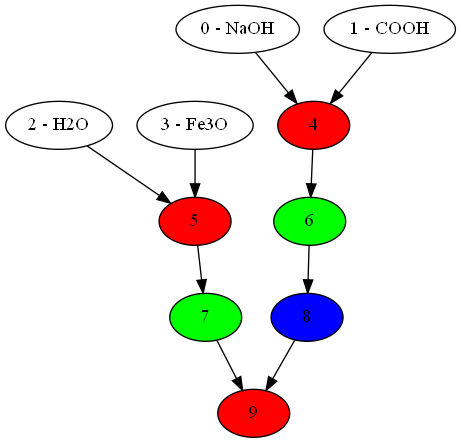
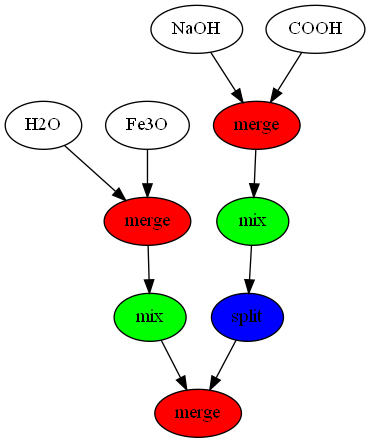
graphviz assays improved look

diff --git a/src/pack/testbench/tests/PlatformAssay3.java b/src/pack/testbench/tests/PlatformAssay3.java
@@ -1,0 +1,46 @@
+package pack.testbench.tests;
+
+import pack.algorithms.BioAssay;
+import pack.algorithms.BioAssayBuilder;
+
+public class PlatformAssay3 extends BioAssay {
+  
+  public PlatformAssay3() {
+    build();
+  }
+
+  private void build() {
+    BioAssayBuilder builder = new BioAssayBuilder();
+    
+    int input1 = builder.createDispenseOperation("NaOH");
+    int heat1 = builder.createHeatingOperation(90f);
+    
+    builder.connect(input1, heat1);
+
+    int input2 = builder.createDispenseOperation("NaCl");
+    int mix1 = builder.createMixOperation();
+    
+    builder.connect(input2, mix1);
+
+    int input3 = builder.createDispenseOperation("A");
+    int input4 = builder.createDispenseOperation("B");
+    int merge1 = builder.createMergeOperation();
+    
+    builder.connect(input3, merge1);
+    builder.connect(input4, merge1);
+    
+    int heat2 = builder.createHeatingOperation(9000f);
+    builder.connect(merge1, heat2);
+    
+    int merge2 = builder.createMergeOperation();
+    builder.connect(heat2, merge2);
+    builder.connect(mix1, merge2);
+
+    int merge3 = builder.createMergeOperation();
+    builder.connect(merge2, merge3);
+    builder.connect(heat1, merge3);
+    
+    sink = builder.getSink();
+    count = builder.getOperationCount();
+  }
+}

diff --git a/src/pack/testbench/TestSuite.java b/src/pack/testbench/TestSuite.java
@@ -29,8 +29,10 @@ import pack.testbench.tests.PCRMixingTreeArray;
 import pack.testbench.tests.PCRMixingTreeAssay;
 import pack.testbench.tests.PlatformArray1;
 import pack.testbench.tests.PlatformArray2;
+import pack.testbench.tests.PlatformArray3;
 import pack.testbench.tests.PlatformAssay1;
 import pack.testbench.tests.PlatformAssay2;
+import pack.testbench.tests.PlatformAssay3;
 import pack.testbench.tests.Test1BioArray;
 import pack.testbench.tests.Test1BioAssay;
 import pack.testbench.tests.Test2BioArray;
@@ -121,7 +123,6 @@ public class TestSuite {
       testResult.runningTime = msElapsed / 1000f;
       
       testResults.add(testResult);
-      
     }
     
     System.out.printf("completed all tests.\n\n");
@@ -176,6 +177,7 @@ public class TestSuite {
     register(new CrowdedModuleBioAssay(), new CrowdedModuleBioArray());
     register(new PlatformAssay1(), new PlatformArray1());
     register(new PlatformAssay2(), new PlatformArray2());
+    register(new PlatformAssay3(), new PlatformArray3());
   }
   
   private void register(BioAssay assay, BioArray array) {

diff --git a/src/pack/gui/App.java b/src/pack/gui/App.java
@@ -33,8 +33,8 @@ import pack.testbench.tests.ModuleBioArray4;
 import pack.testbench.tests.ModuleBioAssay4;
 import pack.testbench.tests.PCRMixingTreeArray;
 import pack.testbench.tests.PCRMixingTreeAssay;
-import pack.testbench.tests.PlatformArray2;
-import pack.testbench.tests.PlatformAssay2;
+import pack.testbench.tests.PlatformArray3;
+import pack.testbench.tests.PlatformAssay3;
 import pack.testbench.tests.Test4BioArray;
 import pack.testbench.tests.Test4BioAssay;
 import pack.testbench.tests.functionality.DisposeArray1;
@@ -111,8 +111,8 @@ public class App extends ApplicationAdapter {
     assay = new DisposeAssay1();
     array = new DisposeArray1();
     
-    assay = new PlatformAssay2();
-    array = new PlatformArray2();
+    assay = new PlatformAssay3();
+    array = new PlatformArray3();
     
 		Router router = new GreedyRouter();
 		//Router router = new NotDropletAwareGreedyRouter();

diff --git a/src/pack/testbench/tests/PlatformArray3.java b/src/pack/testbench/tests/PlatformArray3.java
@@ -1,0 +1,23 @@
+package pack.testbench.tests;
+
+import pack.algorithms.BioArray;
+import pack.algorithms.Point;
+import pack.testbench.catalogs.LargeSoftPolicyModuleCatalog;
+
+public class PlatformArray3 extends BioArray {
+  
+  public PlatformArray3() {
+    width = 32;
+    height = 20;
+    
+    catalog = new LargeSoftPolicyModuleCatalog();
+    
+    reservoirTiles.add(new Point(0, 0));
+    reservoirTiles.add(new Point(width - 1, height - 1));
+    reservoirTiles.add(new Point(8, 7));
+    reservoirTiles.add(new Point(width - 1, 0));
+    reservoirTiles.add(new Point(10, 7));
+    reservoirTiles.add(new Point(8, 7));
+    reservoirTiles.add(new Point(4, 4));  // unused as enough reservoirs are available.
+  }
+}

diff --git a/src/pack/run/RunMeGraphCreator.java b/src/pack/run/RunMeGraphCreator.java
@@ -15,7 +15,7 @@ public class RunMeGraphCreator {
   public static String dir = "./src";
   public static String pack = "pack/testbench/tests";
   
-  public static boolean recreateAllGraphs = false;
+  public static boolean recreateAllGraphs = true;
 
 	public static void main(String[] args) {
 	  List<BioAssay> assays = new ArrayList<>();
